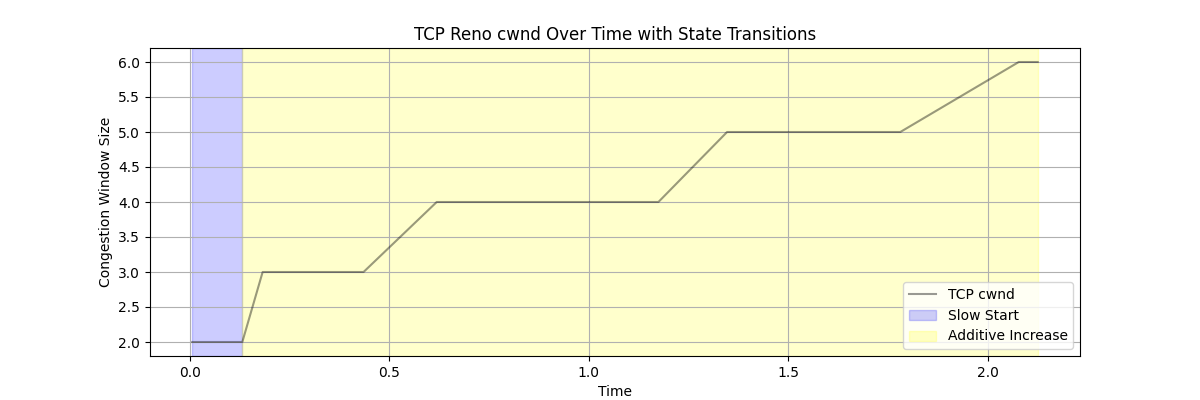
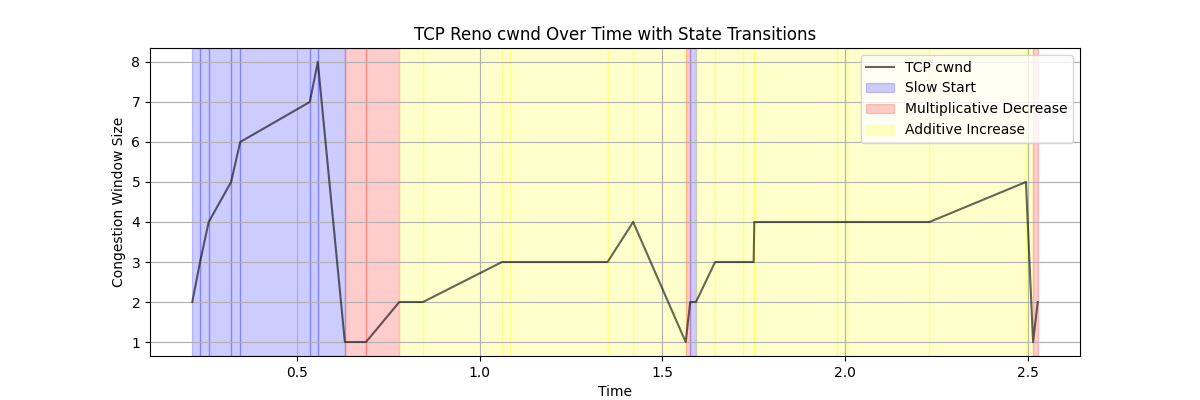
small fix to graphs

Changed region(s): [[0.0617, 0.12, 0.8942, 0.96], [0.0925, 0.84, 0.1233, 0.87], [0.0925, 0.15, 0.1233, 0.18]]

diff --git a/mm1.py b/mm1.py
@@ -23,7 +23,7 @@ class CongestionControl:
     '''
     def __init__(self):
         self.cwnd = 1
-        self.ssthresh = 2
+        self.ssthresh = 10
         self.acked = 0
 
         self.cwnd_log = []
@@ -88,6 +88,7 @@ class TCPReno(CongestionControl):
 
         # log the current cwnd and time
         self.log_cwnd(time, phase)
+        print(f"[{time:.4f}] [TCP Reno], cwnd={self.cwnd}, ssthresh={self.ssthresh}, state={phase}")
 
     def on_loss(self, time: float):
         '''
@@ -103,12 +104,14 @@ class TCPReno(CongestionControl):
 
         # log the current cwnd and time
         self.log_cwnd(time, "Multiplicative Decrease")
+        print(f"[{time:.4f}] [TCP Reno], cwnd={self.cwnd}, ssthresh={self.ssthresh}, state=Multiplicative Decrease")
 
 #== MM1 Queue Classes ==#
 class PacketStatus(Enum):
     ARRIVAL = 0
     DROP = 1
     SERVICED = 2
+    BLOCK = 3
 
 class Packet():
     '''
@@ -266,7 +269,7 @@ class Queue():
                 # if so, then packet blocked
                 self.n_block += 1  
                 print(f"[{event_time:.4f}] [{queue_len}] Packet {packet.id} BLOCKED")
-                return None  
+                return Event(packet.id, event_time, PacketStatus.BLOCK)
 
             # add packet to priority queue
             self.priority_queue.append(packet)
@@ -306,6 +309,9 @@ class Queue():
             next_packet = self.priority_queue[0]
             return Event(next_packet.id, event_time + next_packet.service_time, PacketStatus.SERVICED)
         
+        elif status == PacketStatus.BLOCK:
+            return None
+        
     def handle_jobs(self, cc: CongestionControl = None) -> None:
         '''
         Processes the next event in the event queue.
@@ -325,7 +331,7 @@ class Queue():
         if cc:
             if event.status == PacketStatus.SERVICED:
                 cc.on_ack(event.event_time)
-            elif event.status == PacketStatus.DROP:
+            elif event.status in [PacketStatus.DROP, PacketStatus.BLOCK]:
                 cc.on_loss(event.event_time)
 
         self.log_stats(event.event_time, event.status)  # log stats after handling the event
@@ -455,27 +461,25 @@ class Simulator():
         plt.legend()
         plt.savefig(os.path.join(results_folder, "cumulative_packet_events_over_time.png"))
 
+        # TODO: fix coloring of the plot
         if self.cc:
             zipped = sorted(zip(self.cc.time_log, self.cc.cwnd_log, self.cc.state_log))
             times, cwnds, states = zip(*zipped)
             plt.figure(figsize=(12, 4))
-            plt.plot(times, cwnds, color='black', alpha=0.4, label='TCP cwnd')
+            plt.plot(times, cwnds, color='black', alpha=0.6, label='TCP cwnd')
 
             # Fill background based on TCP state
-            last_time = times[0]
-            last_state = states[0]
+            print(states)
+            print(times)
             ax = plt.gca()
-            for t, s in zip(times[1:], states[1:]):
-                if s != last_state:
-                    ax.axvspan(last_time, t, alpha=0.2,
-                               color={'Slow Start': 'blue', 'Additive Increase': 'yellow', 'Multiplicative Decrease': 'red'}.get(last_state, 'gray'),
-                               label=last_state if last_state not in ax.get_legend_handles_labels()[1] else "")
-                    last_time = t
-                    last_state = s
-            # Mark final span
-            ax.axvspan(last_time, times[-1], alpha=0.2,
-                       color={'Slow Start': 'blue', 'Additive Increase': 'yellow', 'Multiplicative Decrease': 'red'}.get(last_state, 'gray'),
-                       label=last_state if last_state not in ax.get_legend_handles_labels()[1] else "")
+            for i in range(len(times) - 1):
+                state = states[i]
+                start_time = times[i]
+                end_time = times[i + 1]
+
+                ax.axvspan(start_time, end_time, alpha=0.2,
+                        color={'Slow Start': 'blue', 'Additive Increase': 'yellow', 'Multiplicative Decrease': 'red'}.get(state, 'gray'),
+                        label=state if state not in ax.get_legend_handles_labels()[1] else "")
 
             plt.xlabel('Time')
             plt.ylabel('Congestion Window Size')
@@ -492,10 +496,10 @@ def main():
     # set parameters
     mu = 10  # service rate (μ)
     theta = 1 # deadline rate or fixed deadline time (θ)
-    lmbda = 10 # arrival rate (λ)
-    n_packet = 20
+    lmbda = 12 # arrival rate (λ)
+    n_packet = 30
 
-    queue_size = 5 
+    queue_size = 4 
     is_exp_drop = False
     
     # init simulator
